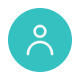
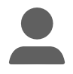
new default theme

diff --git a/kawa.js b/kawa.js
@@ -1,6 +1,7 @@
 const theme_default = {
   Image: '/res/default',
-  MainColor: '#20ACAB',
+  MainColor: '#1890ff',
+  TabSelectedColor: '#606060',
 }
 
 const theme_blue = {
@@ -15,5 +16,5 @@ const theme_cyan = {
 
 module.exports = {
   AppKey: "J3PDS76SH6JASQHX2QAY5VQ3QINXIYLEMVIREFADB7Z2BHCWC3VA====",
-  Theme: theme_cyan,
+  Theme: theme_default,
 }

diff --git a/pages/home/home.js b/pages/home/home.js
@@ -171,6 +171,6 @@ function applyTheme(theme) {
 
   wx.setTabBarStyle({
     color: "#b5b5b5",
-    selectedColor: theme.MainColor,
+    selectedColor: theme.TabSelectedColor || theme.MainColor,
   })
 }
